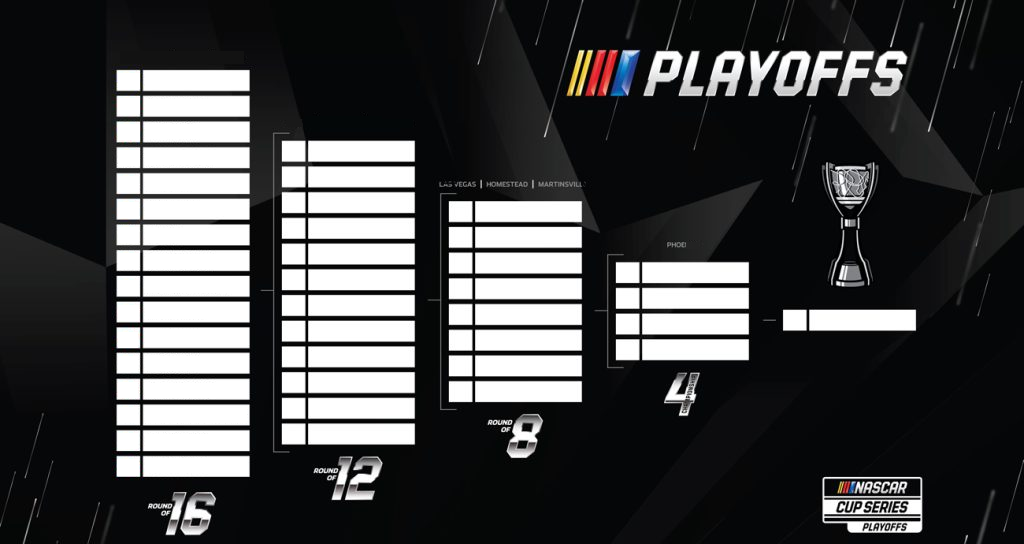
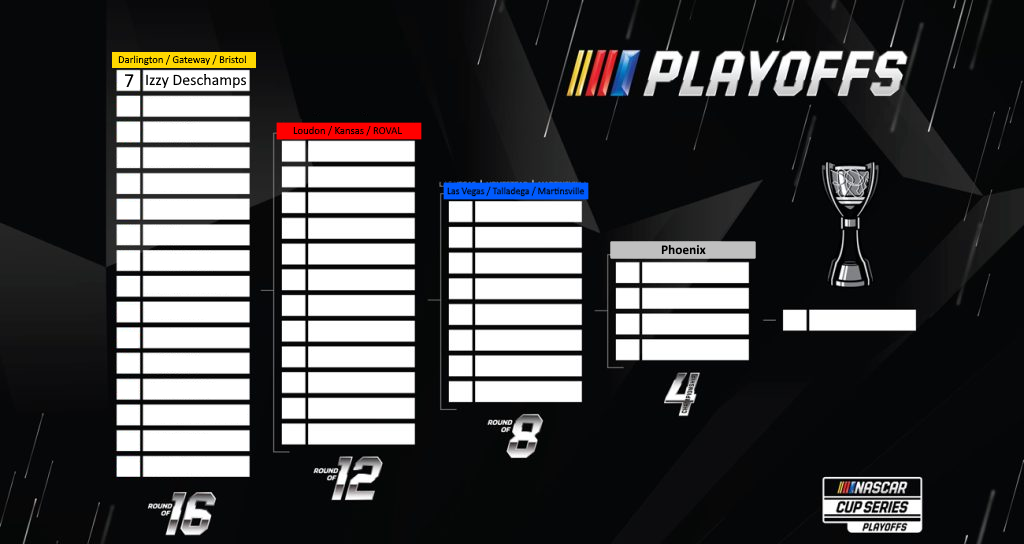
Added Izzy's bio page

diff --git a/bios/bioIzzyDeschamps.html b/bios/bioIzzyDeschamps.html
@@ -1,0 +1,153 @@
+<!DOCTYPE html>
+<html>
+<head>
+
+<title>Izzy Deschamps - 2025 NASCAR Cup Series</title>
+<link rel="icon" type="image/x-icon" href="/alternate-universe-2025-nascar-cup-series/favicon.ico">
+<link rel="stylesheet" href="/alternate-universe-2025-nascar-cup-series/site.css" >
+
+</head>
+<body>
+
+  <b><a href="/alternate-universe-2025-nascar-cup-series/teamsAndDrivers.html">-TEAMS AND DRIVERS-</a></b>
+  <b><a href="/alternate-universe-2025-nascar-cup-series/raceDashboard.html">-RACE DASHBOARD-</a></b>
+  <b><a href="/alternate-universe-2025-nascar-cup-series/pointStandings.html">-POINT STANDINGS-</a></b>
+  <b><a href="/alternate-universe-2025-nascar-cup-series/index.html">-PAINT SCHEMES-</a></b>
+  <b><a href="/alternate-universe-2025-nascar-cup-series/regularSeason.html">-HOW THE REGULAR SEASON WORKS-</a></b>
+  <b><a href="/alternate-universe-2025-nascar-cup-series/playoffs.html">-HOW THE PLAYOFFS WORK-</a></b>
+
+<br>
+<img src="/alternate-universe-2025-nascar-cup-series/cars/izzyDeschampsTttCar.png" alt="izzy" style="width:250px;">
+<p>Lindsay (Izzy) Deschamps competes full-time in the NASCAR Cup Series, driving the No. 7 Yamaha Sports Ride for her own team, Lemonjello (Named after her fake pet lizard).</p>
+<br>
+
+  <h1>Season Summary</h1>
+</h3><a href="/alternate-universe-2025-nascar-cup-series/races/clash.html">Clash</a></h3>
+<p>Deschamps was 13th fastest in 1st practice, 34th fastest in 2nd practice, and 29th fastest in 3rd practice. She started 8th in Heat 1, in which she finished 9th. At the Last Chance Qualifier, Deschamps started 13th and finished 10th, failing to advance to the main event.</p>
+
+<h3><a href="/alternate-universe-2025-nascar-cup-series/races/daytona500.html">Daytona 500</a></h3>
+  <p>Deschamps was 39th fastest in qualifying. She started 20th (last place) in Duel 1 and finished 17th. In the Daytona 500, Deschamps started 33rd and was absent at the conclusion of stage 1 and 2. However, in the closing laps she charged through the field to catch up to race leader Jon Turner, who got loose and got shuffled to the back. Deschamps, who was right behind him, took the lead with a bump from Wyatt Bench to win the race having led only one lap, the final lap.</p>
+<h1>Motorsports career results</h1>
+  
+  <h2>Cup Series</h2>
+  
+  <table>
+    <tr>
+      <th>Year</th>
+      <th>Team</th>
+      <th>No.</th>
+      <th>Make</th>
+      <th>1</th>
+      <th>2</th>
+      <th>3</th>
+      <th>4</th>
+      <th>5</th>
+      <th>6</th>
+      <th>7</th>
+      <th>8</th>
+      <th>9</th>
+      <th>10</th>
+      <th>11</th>
+      <th>12</th>
+      <th>13</th>
+      <th>14</th>
+      <th>15</th>
+      <th>16</th>
+      <th>17</th>
+      <th>18</th>
+      <th>19</th>
+      <th>20</th>
+      <th>21</th>
+      <th>22</th>
+      <th>23</th>
+      <th>24</th>
+      <th>25</th>
+      <th>26</th>
+      <th>27</th>
+      <th>28</th>
+      <th>29</th>
+      <th>30</th>
+      <th>31</th>
+      <th>32</th>
+      <th>33</th>
+      <th>34</th>
+      <th>35</th>
+      <th>36</th>
+      <th>NCSC</th>
+      <th>Pts</th>
+    </tr>
+    <tr>
+      <td>2025</td>
+      <td>Lemonjello</td>
+      <td>7</td>
+      <td>Yamaha</td>
+      <td>1</td>
+      <td>ATL</td>
+      <td>COA</td>
+      <td>PHO</td>
+      <td>LVS</td>
+      <td>HOM</td>
+      <td>MAR</td>
+      <td>DAR</td>
+      <td>BRI</td>
+      <td>TAL</td>
+      <td>TEX</td>
+      <td>KAN</td>
+      <td>CLT</td>
+      <td>NSH</td>
+      <td>MCH</td>
+      <td>MXC</td>
+      <td>POC</td>
+      <td>ATL</td>
+      <td>CSC</td>
+      <td>SON</td>
+      <td>DOV</td>
+      <td>IND</td>
+      <td>IOW</td>
+      <td>GLN</td>
+      <td>RCH</td>
+      <td>DAY</td>
+      <td>DAR</td>
+      <td>GTW</td>
+      <td>BRI</td>
+      <td>NHA</td>
+      <td>KAN</td>
+      <td>ROV</td>
+      <td>LVS</td>
+      <td>TAL</td>
+      <td>MAR</td>
+      <td>PHO</td>
+      <td>-</td>
+      <td>-</td>
+    </tr>
+  </table>
+
+</body>
+
+<style>
+  table {
+    font-family: arial, sans-serif;
+    border-collapse: collapse;
+    width: 100%;
+  }
+  
+  td, th {
+  border: 1px solid black;
+  text-align: left;
+  padding: 8px;
+}
+
+td {
+  background-color: black;
+}
+
+img {
+  float: right;
+}
+
+body {
+  color: yellow;
+  text-align: left;
+}
+  </style>
+</html>

diff --git a/teamsAndDrivers.html b/teamsAndDrivers.html
@@ -281,7 +281,7 @@
     <td>Yamaha</td>
     <td>Lemonjello</td>
     <td>7</td>
-	<td>Izzy Deschamps</td>
+	<td><a href="/alternate-universe-2025-nascar-cup-series/bios/bioIzzyDeschamps.html">Izzy Deschamps</a></td>
 	<td>Reed</td>
   </tr>
 </table>
